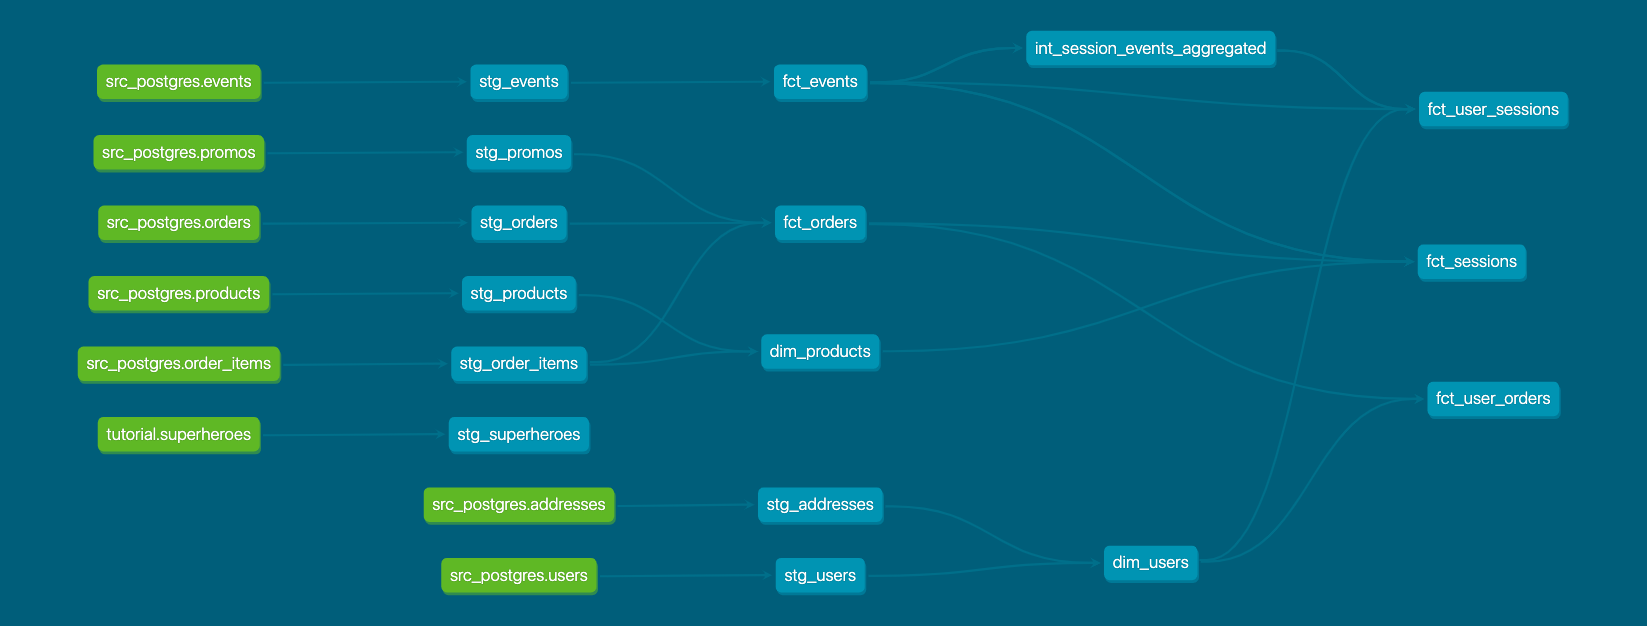
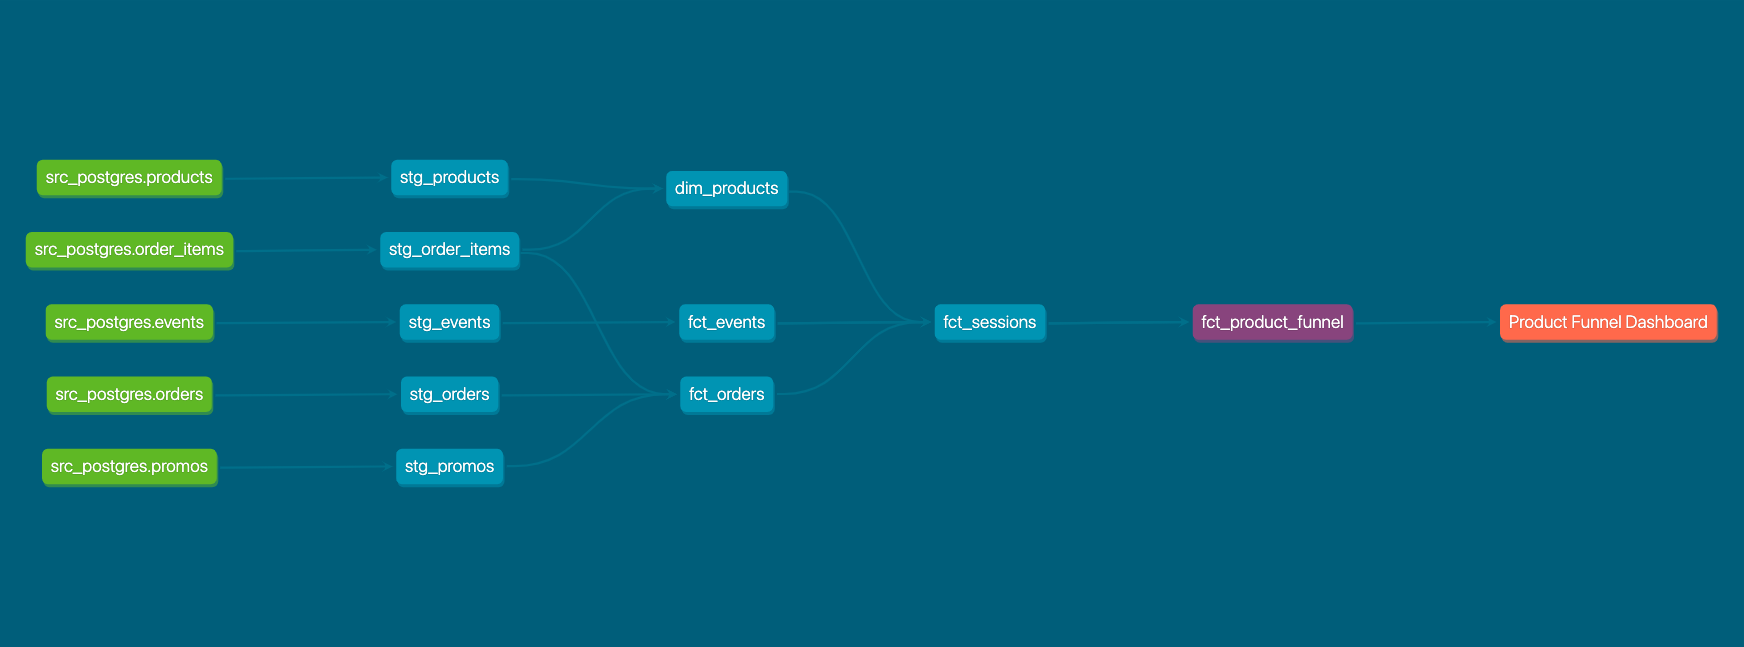
add week 4 answers

diff --git a/project-weeks/week4_project_answers.md b/project-weeks/week4_project_answers.md
@@ -1,0 +1,22 @@
+## Week 4 Project - Answers
+
+### Part 1. dbt Snapshots
+
+I created snapshots/orders_snapshot.sql and below is the changes after running the snapshot.
+![dbt-snapshot](https://github.com/ksenkaya/course-dbt/blob/dbt_dev/project-weeks/dbt_snapshot_changes.png "dbt-snapshot")
+
+
+###  Part 2. Modeling challenge
+
+#### 1 - How are our users moving through the product funnel? Which steps in the funnel have largest drop off points?
+23% of the users after add_to_cart don't convert to checkout.
+Please see the models/marts/produc/fct_product_funnel.sql
+
+|    step     | step_count | drop_off_rate |
+|-------------|------------|---------------|
+| page_view   | 578        |               |
+| add_to_cart | 467        |      0.19     |
+| checkout    | 361        |      0.23     |
+
+Exposures: Please see models/marts/exposures.yml and updated DAG below:
+![dbt-dag](https://github.com/ksenkaya/course-dbt/blob/dbt_dev/project-weeks/dbt-dag.png "dbt-dag")
